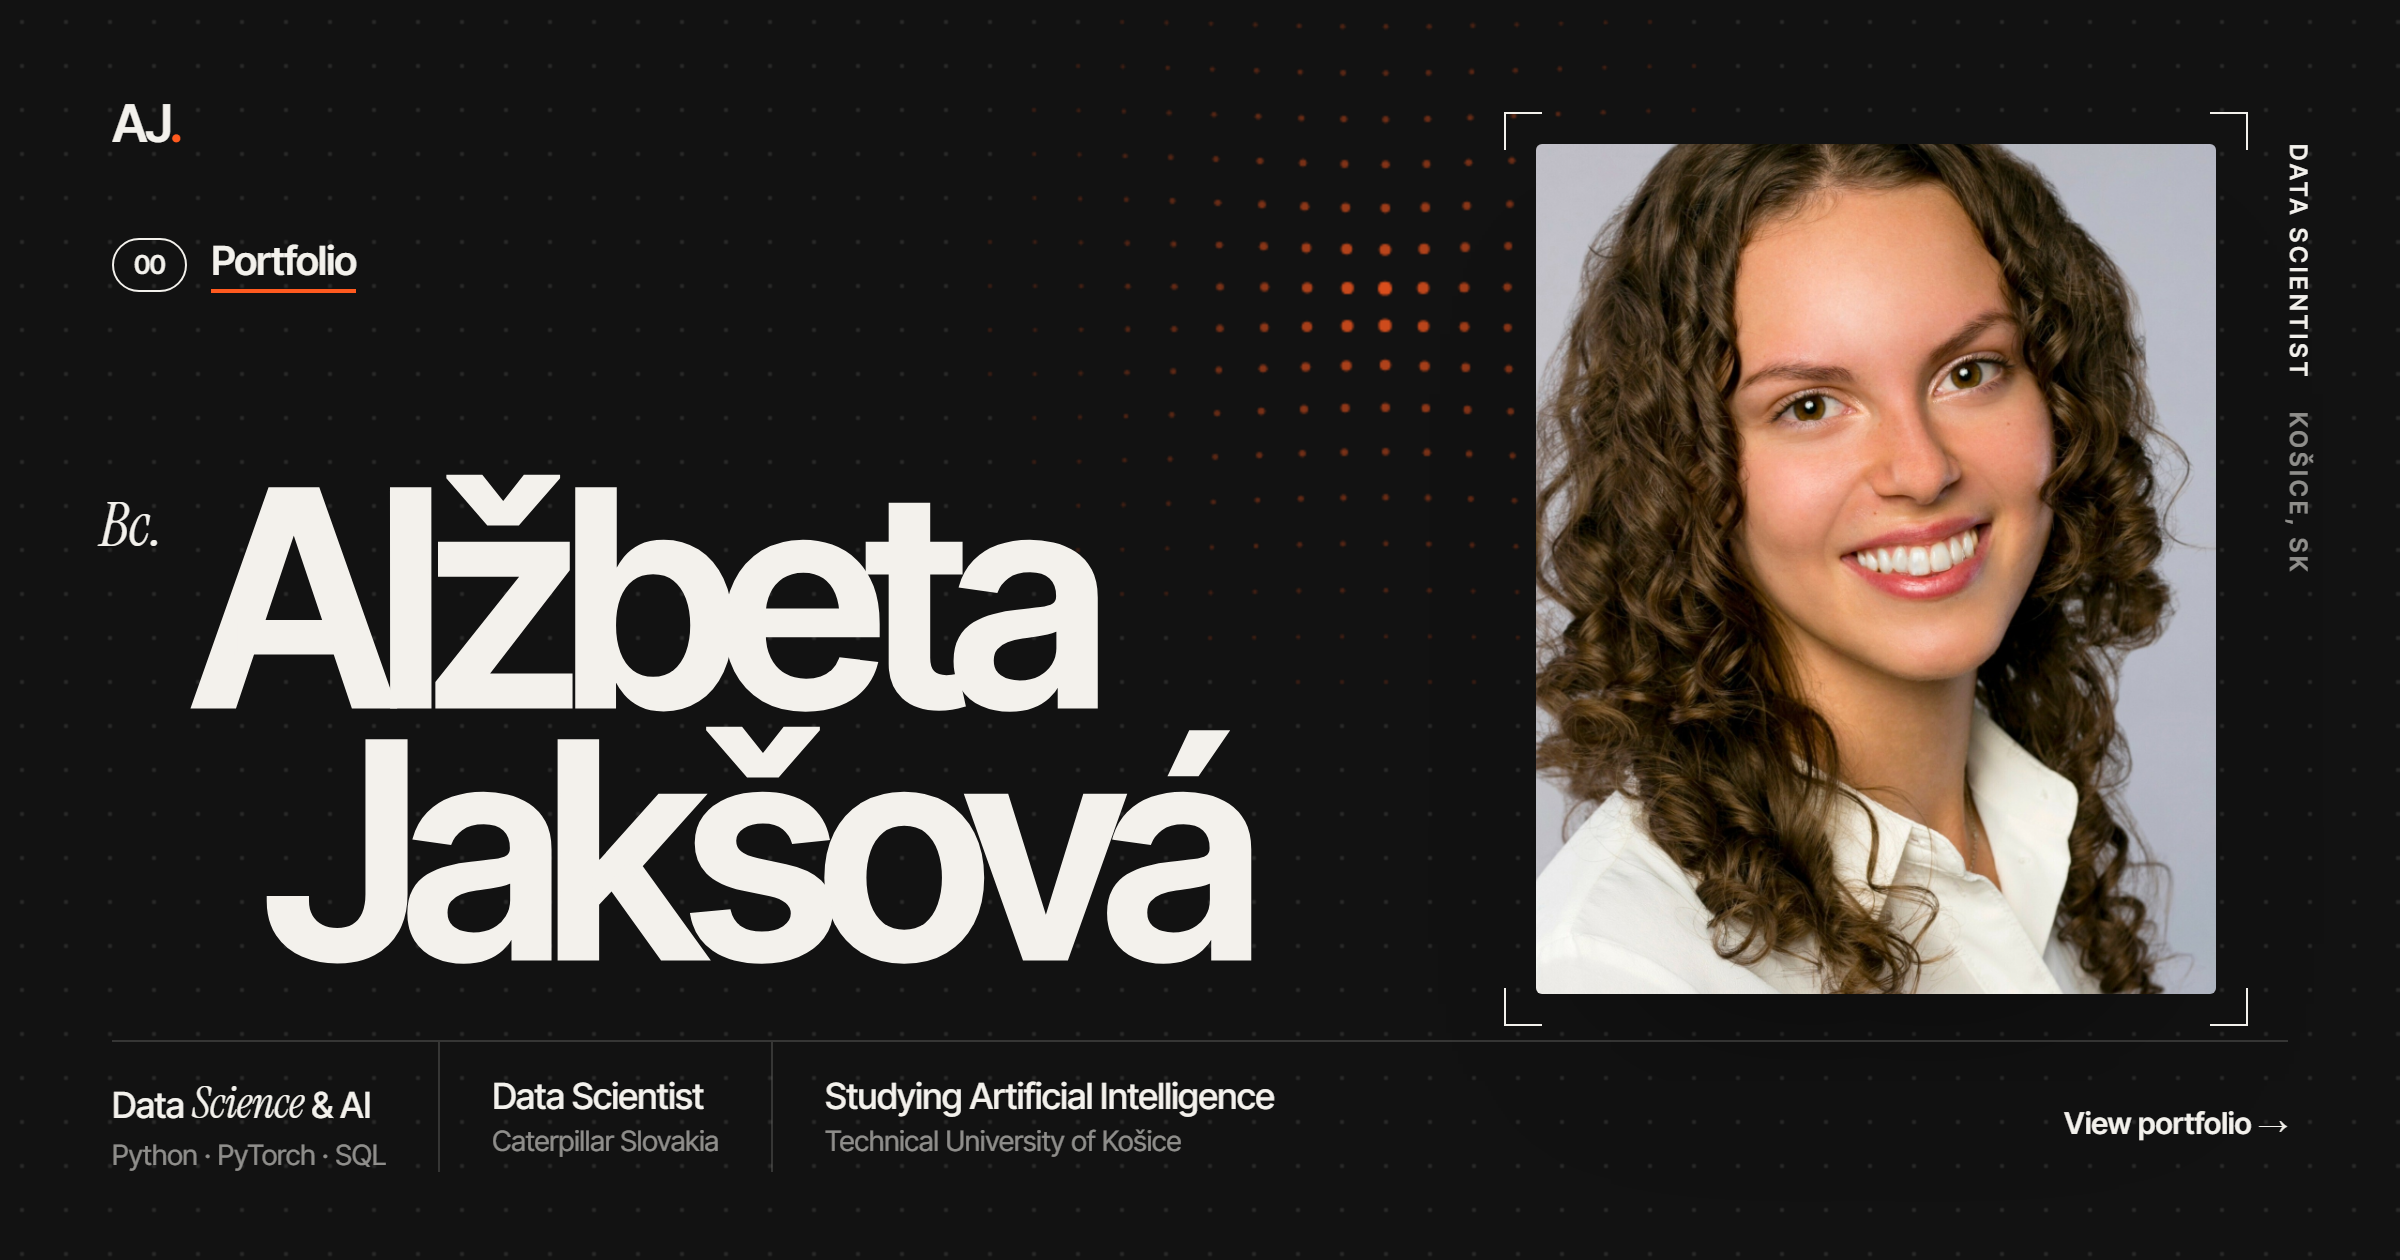
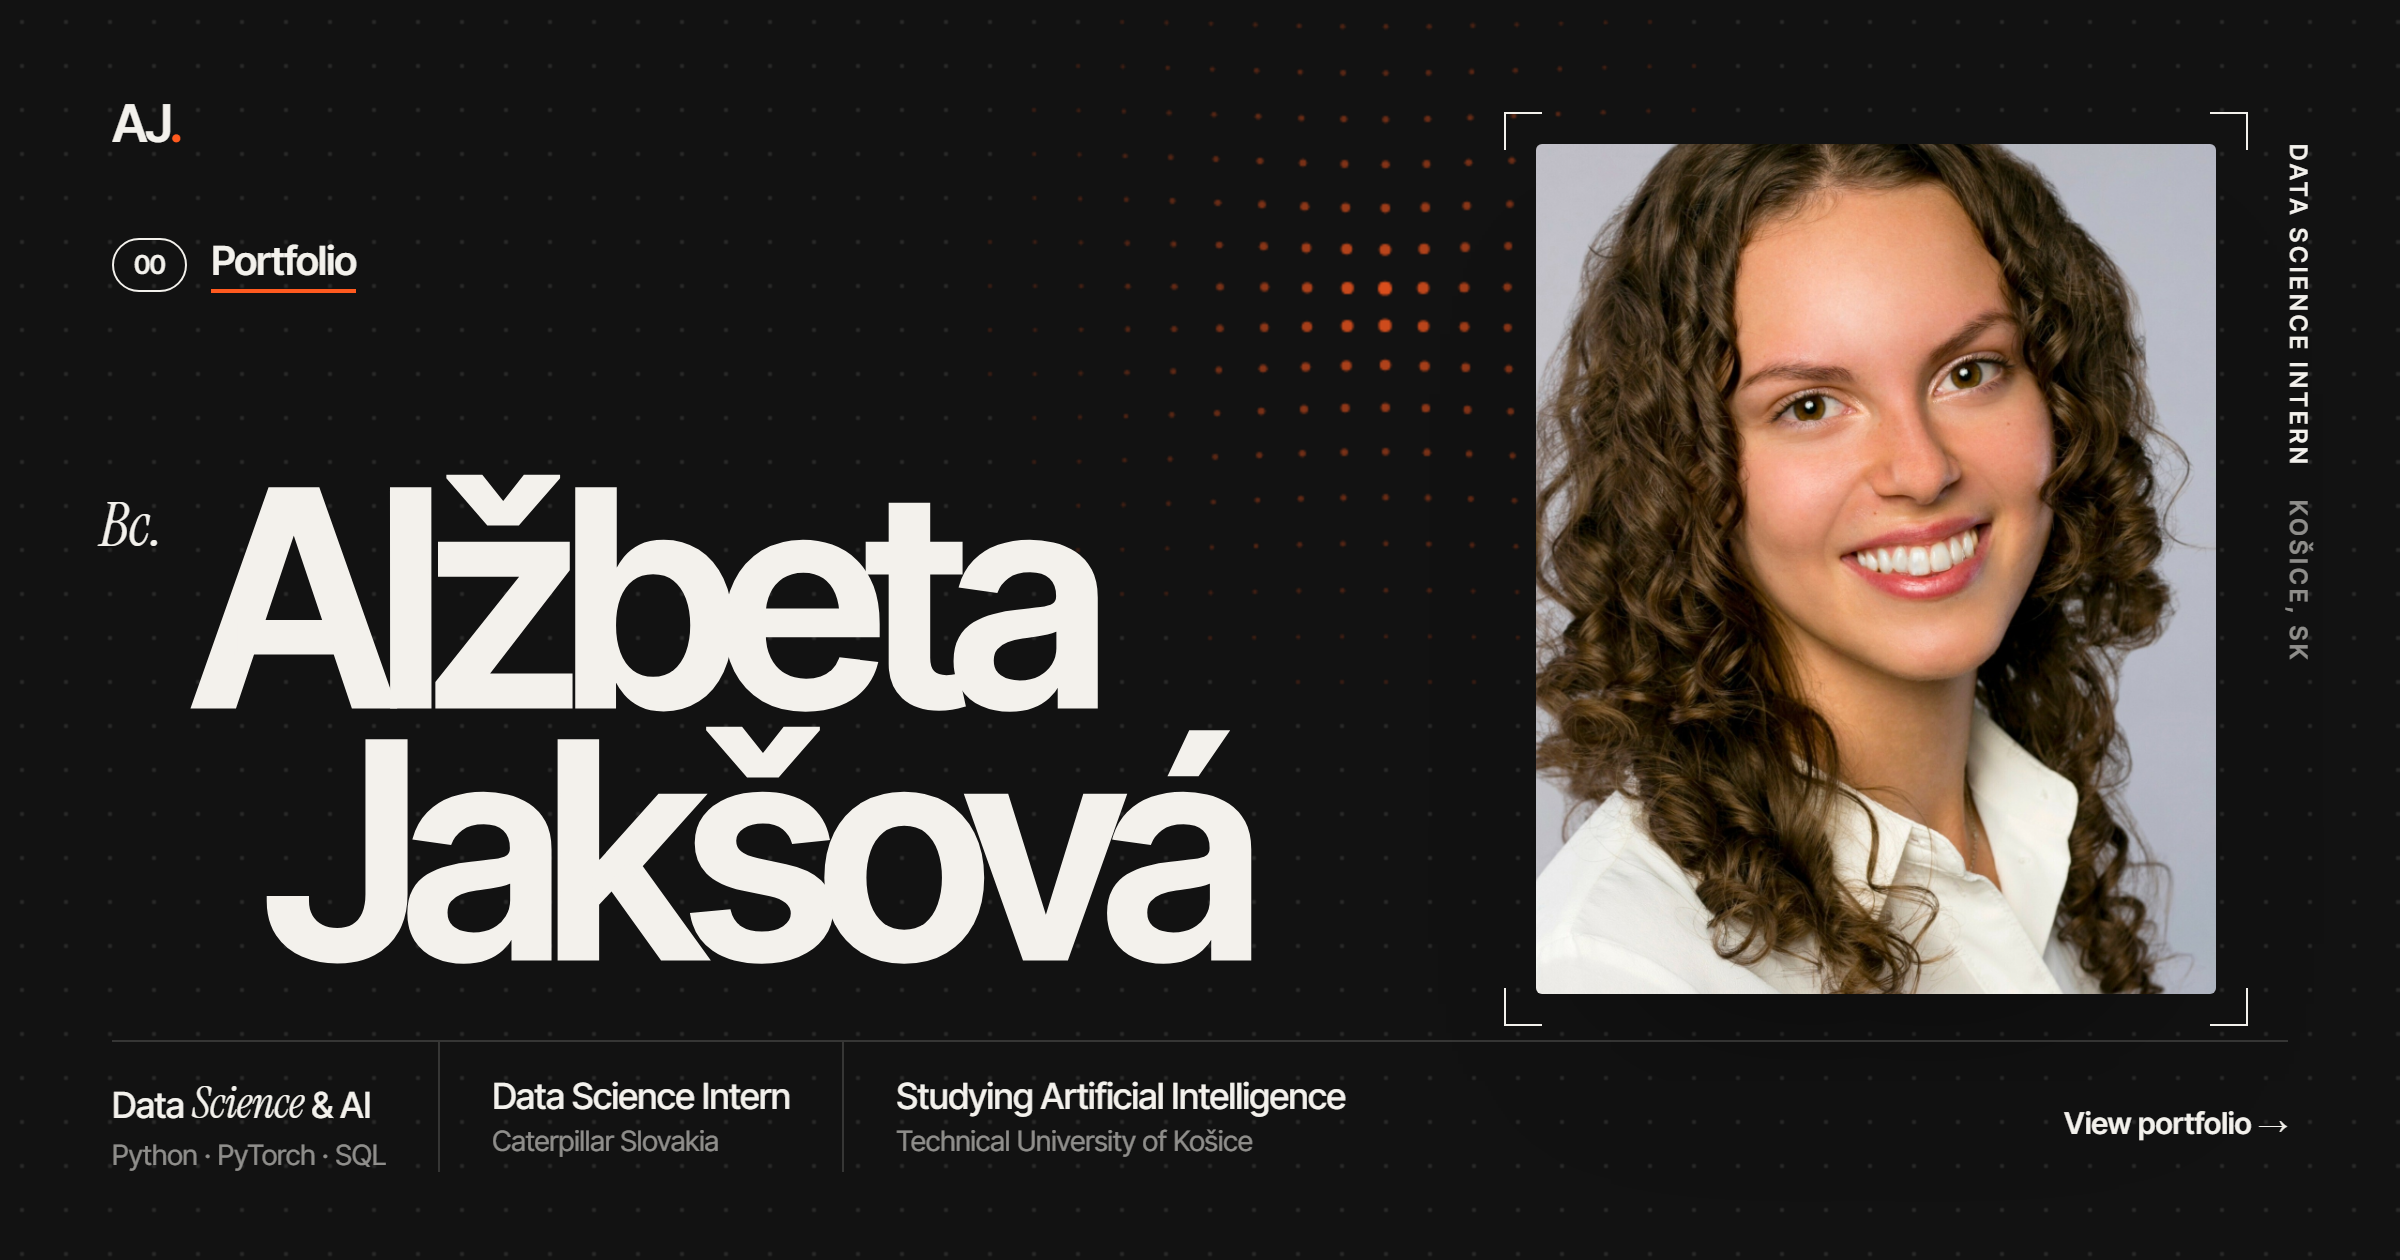
Show Caterpillar role as Data Science Intern alongside studies

Changed region(s): [[0.2812, 0.8357, 0.5625, 0.9286], [0.9375, 0.2476, 0.9688, 0.4643], [0.9375, 0.4952, 0.9688, 0.5262]]

diff --git a/index.html b/index.html
@@ -25,7 +25,7 @@
       "@type": "Person",
       "name": "Alžbeta Jakšová",
       "honorificPrefix": "Bc.",
-      "jobTitle": "Data Scientist",
+      "jobTitle": "Data Science Intern",
       "worksFor": { "@type": "Organization", "name": "Caterpillar Slovakia s.r.o" },
       "alumniOf": { "@type": "CollegeOrUniversity", "name": "Technical University of Košice" },
       "address": { "@type": "PostalAddress", "addressLocality": "Košice", "addressCountry": "SK" },
@@ -126,7 +126,7 @@
         </div>
         <span class="crop tl" aria-hidden="true"></span><span class="crop tr" aria-hidden="true"></span>
         <span class="crop bl" aria-hidden="true"></span><span class="crop br" aria-hidden="true"></span>
-        <p class="art-side" aria-hidden="true"><span>Data Scientist</span><span class="muted">Košice, SK</span></p>
+        <p class="art-side" aria-hidden="true"><span>Data Science Intern</span><span class="muted">Košice, SK</span></p>
       </div>
 
       <p class="hero-hi">Hi, I'm</p>
@@ -172,7 +172,7 @@
         </div>
 
         <div class="now reveal" aria-label="Right now">
-          <div><span class="now-label">Working</span><span class="now-val">Data Scientist</span><span class="muted">Caterpillar Slovakia, Košice</span></div>
+          <div><span class="now-label">Working</span><span class="now-val">Data Science Intern</span><span class="muted">Caterpillar Slovakia, alongside my studies</span></div>
           <div><span class="now-label">Studying</span><span class="now-val">Artificial Intelligence</span><span class="muted">Master's studies, Technical University of Košice</span></div>
         </div>
 

diff --git a/data.js b/data.js
@@ -3,14 +3,14 @@
 
 export const jobs = [
   {
-    title: 'Data Scientist',
+    title: 'Data Science Intern',
     company: 'Caterpillar Slovakia s.r.o',
     location: 'Košice, Slovakia',
     period: 'October 2026 - Present',
     logo: '/img/caterpillar.png',
     badge: 'Promoted',
     description:
-      'After my front-end internship, I moved into a data science role at Caterpillar, applying machine learning to sequential and time-series data in a team that works with Python, notebooks and code review every day.',
+      'After my front-end internship, I moved into a data science internship at Caterpillar alongside my Master's studies, applying machine learning to sequential and time-series data in a team that works with Python, notebooks and code review every day.',
     highlights: [
       'Build and evaluate machine learning models on time-series data using Python (pandas, NumPy) and PyTorch / TensorFlow',
       'Apply attention-based and Transformer methods to sequential data',
